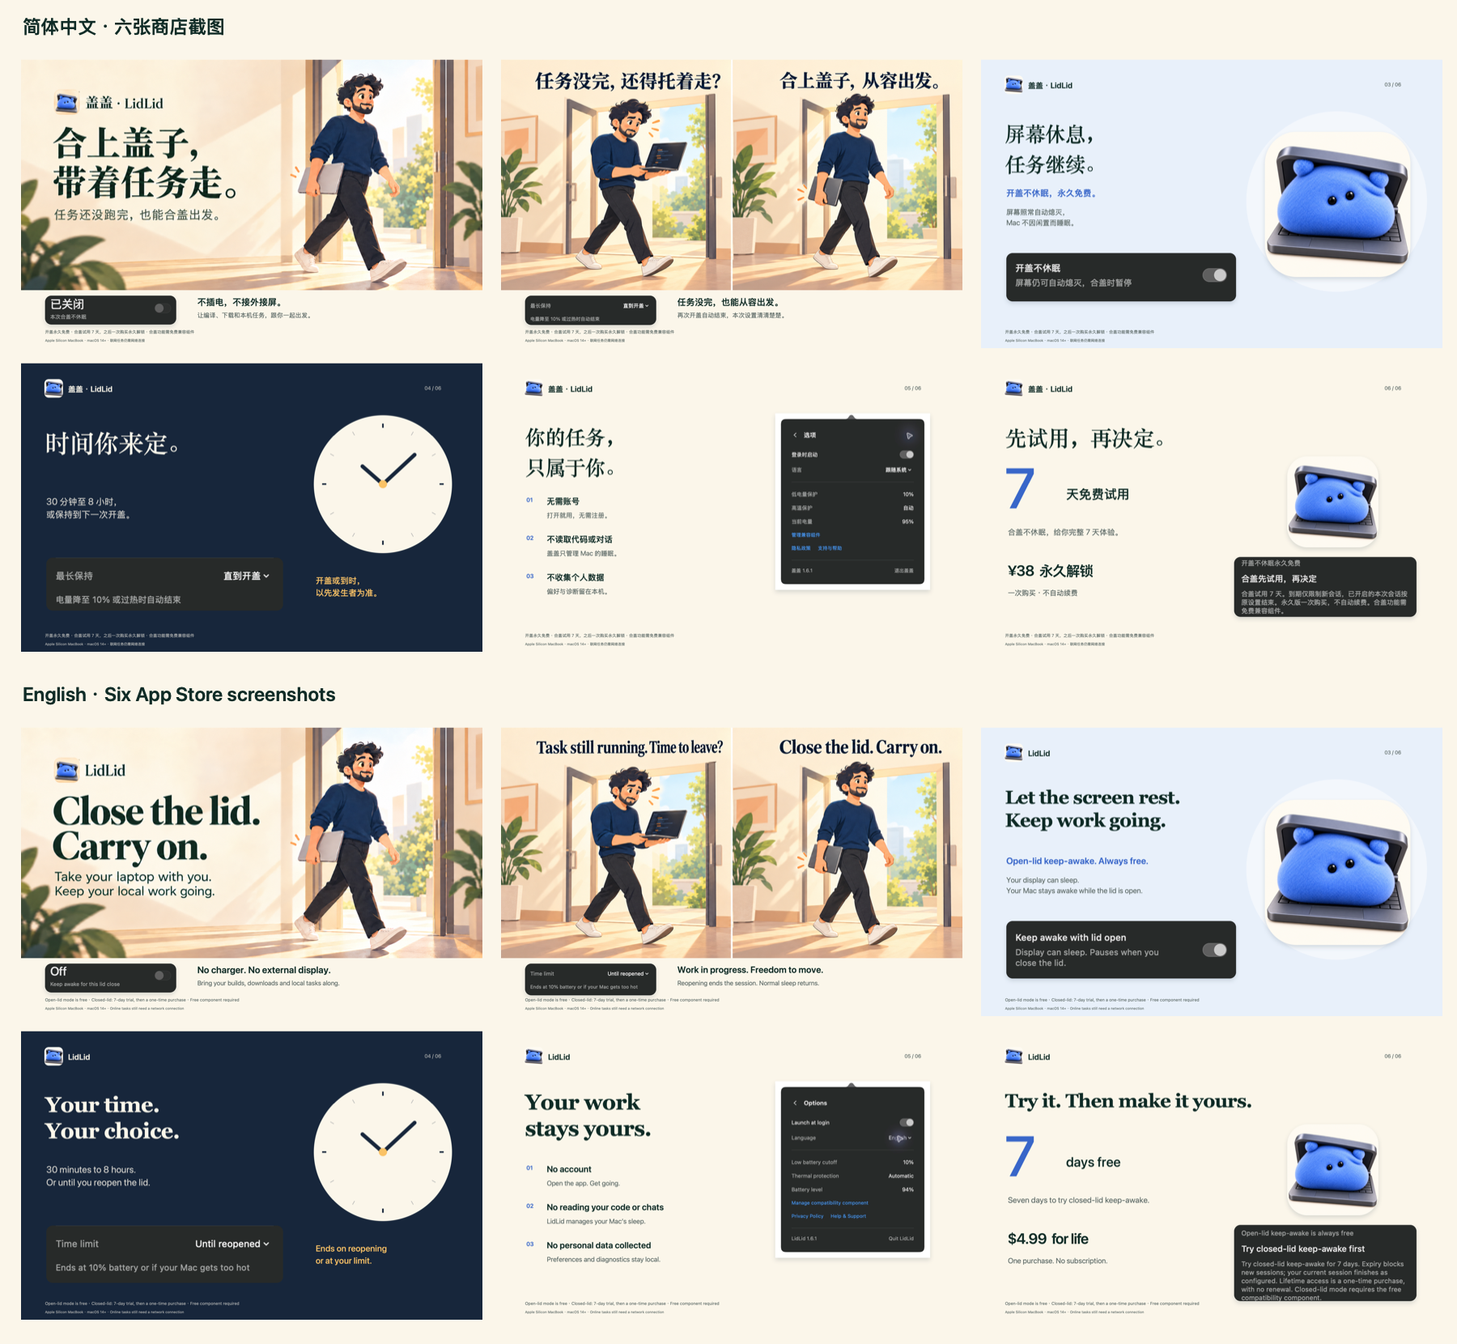
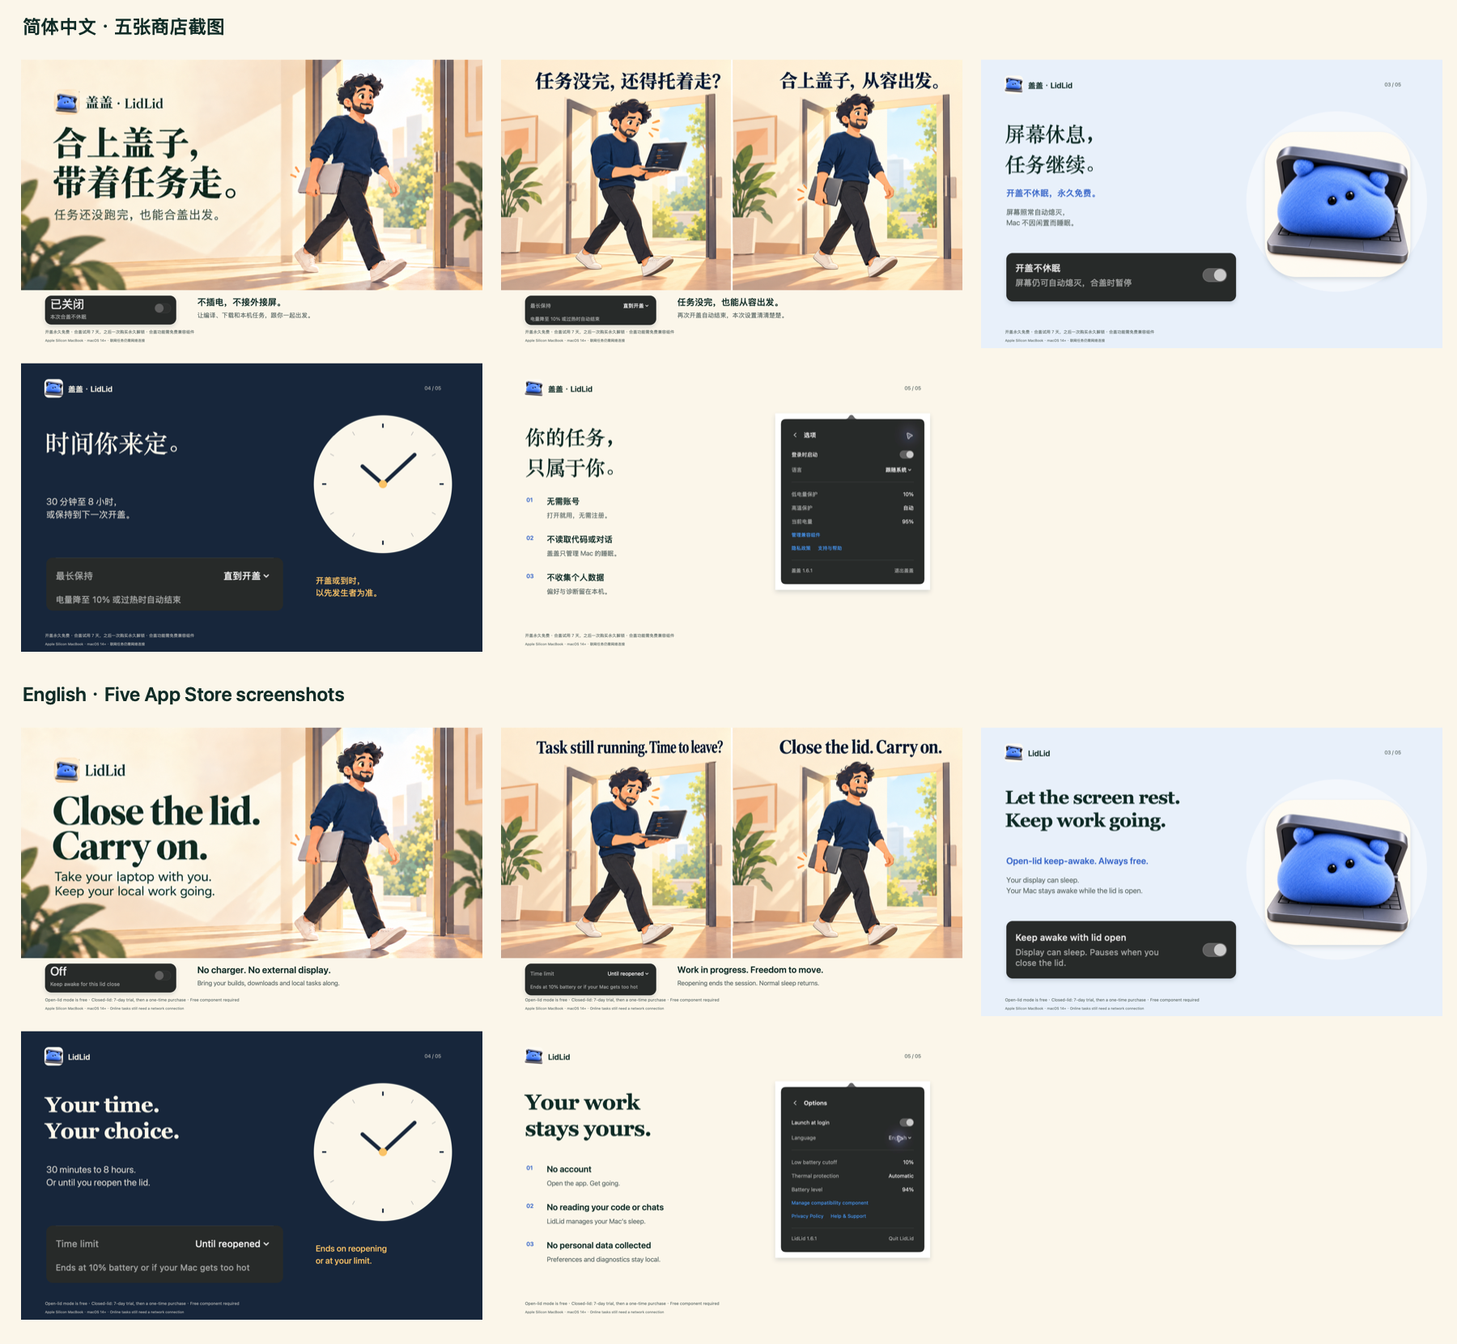
Remove pricing poster from bilingual App Store galleries

diff --git a/docs/app-store/index.html b/docs/app-store/index.html
@@ -1,7 +1,7 @@
 <!doctype html><html lang="zh-CN"><head><meta charset="utf-8"><meta name="viewport" content="width=device-width,initial-scale=1"><title>盖盖 LidLid · Mac App Store 上架资料</title><style>
 :root{color-scheme:light;font-family:-apple-system,BlinkMacSystemFont,"Segoe UI",sans-serif;color:#173c33;background:#f6f4ee}*{box-sizing:border-box}body{margin:0}main{max-width:1160px;margin:auto;padding:56px 28px 90px}header{display:flex;gap:18px;align-items:center}header img{width:72px;height:72px}h1{font-size:34px;letter-spacing:-1px;margin:4px 0 10px}p{line-height:1.7;color:#617167}h2{margin:48px 0 20px;font-size:25px}h3{font-size:15px;margin:0}.eyebrow{font-size:12px;letter-spacing:1px;color:#597164}.tabs{display:flex;gap:8px;margin:30px 0 22px}button{font:inherit;cursor:pointer;border:1px solid #d8ddd5;border-radius:9px;padding:10px 20px;color:inherit;background:#fff}button[aria-selected=true]{background:#204f40;color:white;border-color:#204f40}button:focus-visible,a:focus-visible{outline:3px solid #d99d51;outline-offset:4px}.gallery{display:grid;grid-template-columns:1fr 1fr;gap:20px}.gallery a{display:block;text-decoration:none;border:1px solid #e2e1d8;background:#fff;border-radius:14px;overflow:hidden}.gallery img{width:100%;height:auto;display:block}.gallery span{display:block;padding:12px 16px;font-size:13px;color:#617167}.field{border:1px solid #dddfd6;border-radius:13px;background:#fff;padding:20px;margin:14px 0}.field>div{display:flex;align-items:center;justify-content:space-between;gap:16px}.field pre{font:15px/1.8 -apple-system,BlinkMacSystemFont,sans-serif;white-space:pre-wrap;overflow-wrap:anywhere;color:#324c40;margin:14px 0}.field small{color:#69776e}.copy{padding:6px 12px;font-size:12px;flex-shrink:0}.links{display:flex;gap:20px;flex-wrap:wrap}a{color:#246848}.note{margin-top:40px;padding:22px;border:1px solid #ddd8c9;border-radius:12px;background:#efede4}.note p{margin:8px 0}footer{font-size:13px;color:#657369;margin-top:40px}#status{font-size:13px;min-height:24px;color:#246848}[hidden]{display:none!important}@media(max-width:650px){main{padding:30px 18px}h1{font-size:26px}.gallery{grid-template-columns:1fr}header img{width:56px;height:56px}.field{padding:16px}}
 </style></head><body><main><header><img src="assets/AppIcon-1024.png" alt="盖盖图标"><div><div class="eyebrow">LIDLID · MAC APP STORE</div><h1>盖盖上架资料</h1><p>1.6.1 · 构建 12 · 中英文文案与真实界面截图</p></div></header><nav class="tabs" role="tablist" aria-label="资料语言"><button role="tab" aria-selected="true" aria-controls="zh-Hans" data-locale="zh-Hans">简体中文</button><button role="tab" aria-selected="false" aria-controls="en-US" data-locale="en-US">English</button></nav><div id="status" aria-live="polite"></div><section class="locale" id="zh-Hans">
-<div class="gallery"><a href="screenshots/zh-Hans/01-close-and-go.png" target="_blank"><img src="screenshots/zh-Hans/01-close-and-go.png" alt="zh-Hans 01-close-and-go" width="2880" height="1800"><span>01 · 2880 × 1800 · PNG ↗</span></a><a href="screenshots/zh-Hans/02-carry-with-ease.png" target="_blank"><img src="screenshots/zh-Hans/02-carry-with-ease.png" alt="zh-Hans 02-carry-with-ease" width="2880" height="1800"><span>02 · 2880 × 1800 · PNG ↗</span></a><a href="screenshots/zh-Hans/03-open-lid-free.png" target="_blank"><img src="screenshots/zh-Hans/03-open-lid-free.png" alt="zh-Hans 03-open-lid-free" width="2880" height="1800"><span>03 · 2880 × 1800 · PNG ↗</span></a><a href="screenshots/zh-Hans/04-time-limits.png" target="_blank"><img src="screenshots/zh-Hans/04-time-limits.png" alt="zh-Hans 04-time-limits" width="2880" height="1800"><span>04 · 2880 × 1800 · PNG ↗</span></a><a href="screenshots/zh-Hans/05-local-and-private.png" target="_blank"><img src="screenshots/zh-Hans/05-local-and-private.png" alt="zh-Hans 05-local-and-private" width="2880" height="1800"><span>05 · 2880 × 1800 · PNG ↗</span></a><a href="screenshots/zh-Hans/06-try-and-unlock.png" target="_blank"><img src="screenshots/zh-Hans/06-try-and-unlock.png" alt="zh-Hans 06-try-and-unlock" width="2880" height="1800"><span>06 · 2880 × 1800 · PNG ↗</span></a></div>
+<div class="gallery"><a href="screenshots/zh-Hans/01-close-and-go.png" target="_blank"><img src="screenshots/zh-Hans/01-close-and-go.png" alt="zh-Hans 01-close-and-go" width="2880" height="1800"><span>01 · 2880 × 1800 · PNG ↗</span></a><a href="screenshots/zh-Hans/02-carry-with-ease.png" target="_blank"><img src="screenshots/zh-Hans/02-carry-with-ease.png" alt="zh-Hans 02-carry-with-ease" width="2880" height="1800"><span>02 · 2880 × 1800 · PNG ↗</span></a><a href="screenshots/zh-Hans/03-open-lid-free.png" target="_blank"><img src="screenshots/zh-Hans/03-open-lid-free.png" alt="zh-Hans 03-open-lid-free" width="2880" height="1800"><span>03 · 2880 × 1800 · PNG ↗</span></a><a href="screenshots/zh-Hans/04-time-limits.png" target="_blank"><img src="screenshots/zh-Hans/04-time-limits.png" alt="zh-Hans 04-time-limits" width="2880" height="1800"><span>04 · 2880 × 1800 · PNG ↗</span></a><a href="screenshots/zh-Hans/05-local-and-private.png" target="_blank"><img src="screenshots/zh-Hans/05-local-and-private.png" alt="zh-Hans 05-local-and-private" width="2880" height="1800"><span>05 · 2880 × 1800 · PNG ↗</span></a></div>
 <h2>可复制的中文商店字段</h2>
 <article class="field"><div><h3>名称 / Name</h3><button class="copy" data-copy="zh-Hans-name">复制 / Copy</button></div><pre id="zh-Hans-name">盖盖：MacBook 合盖不休眠</pre><small>16 characters</small></article><article class="field"><div><h3>副标题 / Subtitle</h3><button class="copy" data-copy="zh-Hans-subtitle">复制 / Copy</button></div><pre id="zh-Hans-subtitle">合上电脑，从容出发，让任务继续</pre><small>15 characters</small></article><article class="field"><div><h3>推广语 / Promotional text</h3><button class="copy" data-copy="zh-Hans-promotional_text">复制 / Copy</button></div><pre id="zh-Hans-promotional_text">任务还没跑完，却已经要出发？打开盖盖，合上 MacBook，让本机任务继续运行。无需插电或外接屏，开盖后本次自动结束。</pre><small>59 characters</small></article><article class="field"><div><h3>关键词 / Keywords</h3><button class="copy" data-copy="zh-Hans-keywords">复制 / Copy</button></div><pre id="zh-Hans-keywords">保持唤醒,后台运行,编译,下载,渲染,菜单栏,定时,防睡眠,开发,任务</pre><small>87 / 100 bytes</small></article><article class="field"><div><h3>简介 / Description</h3><button class="copy" data-copy="zh-Hans-description">复制 / Copy</button></div><pre id="zh-Hans-description">任务还在跑，你已经要走了。
 
@@ -44,7 +44,7 @@
 先试用，再决定
 开盖不休眠永久免费。设置好免费兼容组件后，可主动领取 7 天合盖功能试用。试用到期仅限制新开启的合盖会话，已开启的本次会话按原设置结束。可通过 Apple 应用内购买一次永久解锁合盖功能，不自动续费。支持恢复购买，恢复已结束的试用不会重新计时。</pre><small>1052 characters</small></article><article class="field"><div><h3>版本说明 / Release notes</h3><button class="copy" data-copy="zh-Hans-release_notes">复制 / Copy</button></div><pre id="zh-Hans-release_notes">开盖不休眠永久免费。合盖功能可试用 7 天，支持一次购买永久解锁及恢复购买。试用到期不打断本次会话，仅限制新开启的合盖会话。</pre><small>62 characters</small></article><article class="field"><div><h3>官网 / Marketing URL</h3><button class="copy" data-copy="zh-Hans-marketing_url">复制 / Copy</button></div><pre id="zh-Hans-marketing_url">https://lidlid.vercel.app/</pre><small></small></article><article class="field"><div><h3>支持 / Support URL</h3><button class="copy" data-copy="zh-Hans-support_url">复制 / Copy</button></div><pre id="zh-Hans-support_url">https://lidlid.vercel.app/support/</pre><small></small></article><article class="field"><div><h3>隐私政策 / Privacy Policy URL</h3><button class="copy" data-copy="zh-Hans-privacy_url">复制 / Copy</button></div><pre id="zh-Hans-privacy_url">https://lidlid.vercel.app/privacy/</pre><small></small></article>
 <h2>隐私与审核资料</h2><div class="links"><a href="privacy/zh-Hans.html">完整隐私政策 ↗</a><a href="privacy/zh-Hans.txt">TXT ↗</a><a href="review-notes.zh-Hans.txt">审核说明 ↗</a></div></section><section class="locale" id="en-US" hidden>
-<div class="gallery"><a href="screenshots/en-US/01-close-and-go.png" target="_blank"><img src="screenshots/en-US/01-close-and-go.png" alt="en-US 01-close-and-go" width="2880" height="1800"><span>01 · 2880 × 1800 · PNG ↗</span></a><a href="screenshots/en-US/02-carry-with-ease.png" target="_blank"><img src="screenshots/en-US/02-carry-with-ease.png" alt="en-US 02-carry-with-ease" width="2880" height="1800"><span>02 · 2880 × 1800 · PNG ↗</span></a><a href="screenshots/en-US/03-open-lid-free.png" target="_blank"><img src="screenshots/en-US/03-open-lid-free.png" alt="en-US 03-open-lid-free" width="2880" height="1800"><span>03 · 2880 × 1800 · PNG ↗</span></a><a href="screenshots/en-US/04-time-limits.png" target="_blank"><img src="screenshots/en-US/04-time-limits.png" alt="en-US 04-time-limits" width="2880" height="1800"><span>04 · 2880 × 1800 · PNG ↗</span></a><a href="screenshots/en-US/05-local-and-private.png" target="_blank"><img src="screenshots/en-US/05-local-and-private.png" alt="en-US 05-local-and-private" width="2880" height="1800"><span>05 · 2880 × 1800 · PNG ↗</span></a><a href="screenshots/en-US/06-try-and-unlock.png" target="_blank"><img src="screenshots/en-US/06-try-and-unlock.png" alt="en-US 06-try-and-unlock" width="2880" height="1800"><span>06 · 2880 × 1800 · PNG ↗</span></a></div>
+<div class="gallery"><a href="screenshots/en-US/01-close-and-go.png" target="_blank"><img src="screenshots/en-US/01-close-and-go.png" alt="en-US 01-close-and-go" width="2880" height="1800"><span>01 · 2880 × 1800 · PNG ↗</span></a><a href="screenshots/en-US/02-carry-with-ease.png" target="_blank"><img src="screenshots/en-US/02-carry-with-ease.png" alt="en-US 02-carry-with-ease" width="2880" height="1800"><span>02 · 2880 × 1800 · PNG ↗</span></a><a href="screenshots/en-US/03-open-lid-free.png" target="_blank"><img src="screenshots/en-US/03-open-lid-free.png" alt="en-US 03-open-lid-free" width="2880" height="1800"><span>03 · 2880 × 1800 · PNG ↗</span></a><a href="screenshots/en-US/04-time-limits.png" target="_blank"><img src="screenshots/en-US/04-time-limits.png" alt="en-US 04-time-limits" width="2880" height="1800"><span>04 · 2880 × 1800 · PNG ↗</span></a><a href="screenshots/en-US/05-local-and-private.png" target="_blank"><img src="screenshots/en-US/05-local-and-private.png" alt="en-US 05-local-and-private" width="2880" height="1800"><span>05 · 2880 × 1800 · PNG ↗</span></a></div>
 <h2>English product page fields</h2>
 <article class="field"><div><h3>名称 / Name</h3><button class="copy" data-copy="en-US-name">复制 / Copy</button></div><pre id="en-US-name">LidLid: Closed-Lid Keep Awake</pre><small>29 characters</small></article><article class="field"><div><h3>副标题 / Subtitle</h3><button class="copy" data-copy="en-US-subtitle">复制 / Copy</button></div><pre id="en-US-subtitle">Close the lid. Carry on.</pre><small>24 characters</small></article><article class="field"><div><h3>推广语 / Promotional text</h3><button class="copy" data-copy="en-US-promotional_text">复制 / Copy</button></div><pre id="en-US-promotional_text">Work still running when you need to move? Keep your MacBook awake with the lid closed, on battery and without an external display. Reopen it to end the session.</pre><small>160 characters</small></article><article class="field"><div><h3>关键词 / Keywords</h3><button class="copy" data-copy="en-US-keywords">复制 / Copy</button></div><pre id="en-US-keywords">clamshell,sleep,laptop,background,timer,build,download,render,menubar,awake,screen</pre><small>82 / 100 bytes</small></article><article class="field"><div><h3>简介 / Description</h3><button class="copy" data-copy="en-US-description">复制 / Copy</button></div><pre id="en-US-description">Your work is still running. You need to go.
 

diff --git a/scripts/render-app-store.swift b/scripts/render-app-store.swift
@@ -5,7 +5,7 @@ import AppKit
 let root = URL(fileURLWithPath: CommandLine.arguments.count > 1 ? CommandLine.arguments[1] : FileManager.default.currentDirectoryPath)
 let out = root.appendingPathComponent("docs/app-store")
 let W: CGFloat = 1440, H: CGFloat = 900
-let names = ["01-close-and-go", "02-carry-with-ease", "03-open-lid-free", "04-time-limits", "05-local-and-private", "06-try-and-unlock"]
+let names = ["01-close-and-go", "02-carry-with-ease", "03-open-lid-free", "04-time-limits", "05-local-and-private"]
 let ink = NSColor(srgbRed: 0.06, green: 0.17, blue: 0.15, alpha: 1)
 let muted = NSColor(srgbRed: 0.36, green: 0.41, blue: 0.40, alpha: 1)
 let blue = NSColor(srgbRed: 0.22, green: 0.40, blue: 0.79, alpha: 1)
@@ -54,7 +54,7 @@ func native(_ cn: Bool, _ top: CGFloat, _ height: CGFloat, _ x: CGFloat, _ y: CG
 func header(_ cn: Bool, _ page: Int, dark: Bool = false) {
     draw(load("docs/assets/app-icon.png"), 72, 48, 58)
     text(cn ? "盖盖 · LidLid" : "LidLid", 146, 64, 600, 40, 25, dark ? cream : ink, .semibold)
-    if page > 0 { text(String(format: "%02d / 06", page), 1260, 67, 110, 30, 16, dark ? cream.withAlphaComponent(0.65) : muted) }
+    if page > 0 { text(String(format: "%02d / %02d", page, names.count), 1260, 67, 110, 30, 16, dark ? cream.withAlphaComponent(0.65) : muted) }
 }
 func footer(_ cn: Bool, dark: Bool = false) {
     let c = dark ? cream.withAlphaComponent(0.65) : muted
@@ -139,18 +139,6 @@ for locale in ["zh-Hans", "en-US"] {
         shadow { draw(load("docs/app-store/captures/\(locale)/options.png"), 856, 155, 484) }
         footer(cn)
     }
-    try render(names[5], locale) { cn in
-        header(cn, 6)
-        text(cn ? "先试用，再决定。" : "Try it. Then make it yours.", 74, 182, 1290, 100, cn ? 68 : 60, ink, .semibold, serif: true)
-        text("7", 72, 281, 225, 214, 178, blue, .medium)
-        text(cn ? "天免费试用" : "days free", 265, 382, 510, 64, 42, ink, .medium)
-        text(cn ? "合盖不休眠，给你完整 7 天体验。" : "Seven days to try closed-lid keep-awake.", 83, 512, 660, 70, 25, muted)
-        text(cn ? "¥38  永久解锁" : "$4.99  for life", 82, 620, 650, 70, 46, ink, .semibold)
-        text(cn ? "一次购买 · 不自动续费" : "One purchase. No subscription.", 83, 703, 650, 43, 23, muted)
-        shadow { draw(load("docs/assets/app-icon.png"), 956, 290, 285) }
-        native(cn, cn ? 728 : 785, cn ? 198 : 252, 790, 605, 570)
-        footer(cn)
-    }
     // Private IAP review attachment: complete real native capture, including
     // actual StoreKit availability. This is NOT a public product-page card.
     try render("review-purchase-ui", locale) { cn in
@@ -167,7 +155,7 @@ let overview = CGContext(data: nil, width: 1800, height: 1660, bitsPerComponent:
 NSGraphicsContext.saveGraphicsState(); NSGraphicsContext.current = NSGraphicsContext(cgContext: overview, flipped: false)
 cream.setFill(); NSRect(x: 0, y: 0, width: 1800, height: 1660).fill()
 for (row, locale) in ["zh-Hans", "en-US"].enumerated() {
-    let label = NSAttributedString(string: locale == "zh-Hans" ? "简体中文 · 六张商店截图" : "English · Six App Store screenshots", attributes: [.font: NSFont.systemFont(ofSize: 24, weight: .semibold), .foregroundColor: ink])
+    let label = NSAttributedString(string: locale == "zh-Hans" ? "简体中文 · 五张商店截图" : "English · Five App Store screenshots", attributes: [.font: NSFont.systemFont(ofSize: 24, weight: .semibold), .foregroundColor: ink])
     label.draw(at: NSPoint(x: 28, y: 1614 - row * 825))
     for (index, name) in names.enumerated() {
         let col = index % 3, r = index / 3
@@ -177,4 +165,4 @@ for (row, locale) in ["zh-Hans", "en-US"].enumerated() {
 }
 NSGraphicsContext.restoreGraphicsState()
 try NSBitmapImageRep(cgImage: overview.makeImage()!).representation(using: .png, properties: [:])!.write(to: out.appendingPathComponent("screenshots-overview.png"))
-print("Rendered six 2880 × 1800 opaque RGB screenshots per locale, plus private IAP review attachments.")
+print("Rendered five 2880 × 1800 opaque RGB screenshots per locale, plus private IAP review attachments.")

diff --git a/docs/app-store/SUBMISSION.md b/docs/app-store/SUBMISSION.md
@@ -9,7 +9,7 @@
 ## 可直接使用的资料
 
 - metadata/zh-Hans 与 metadata/en-US 中的纯文本字段可逐项复制。
-- screenshots 中按 01 至 06 的顺序上传对应语言 PNG；尺寸为 2880 × 1800，16:10，无透明通道。
+- screenshots 中按 01 至 05 的顺序上传对应语言 PNG；尺寸为 2880 × 1800，16:10，无透明通道。
 - privacy 中提供完整中英文政策，正式 URL 已列入对应元数据。政策与官网使用同一个文本来源。
 - review-notes.en.txt 是审核说明；中文说明供核对，不包含个人审核联系方式。
 - assets 中提供现有品牌图标的标准尺寸导出和 AppIcon.appiconset。
@@ -20,7 +20,7 @@
 
 正式会员和团队 `63ALH54858` 已核实。Bundle ID `dev.kf.lidonce` 已注册，App Store Connect 应用记录为 `6831452648`，SKU 为 `LIDLID_MAC`。1.6.1 构建 12 已通过本机发行签名、描述文件、沙盒与隐私清单校验，经 Xcode 成功上传；上传成功不代表审核通过。
 
-中英文名称、副标题、描述、关键词、支持和隐私网址已填写。中英文商店图库各 6 张已上传至对应语言，顺序为出门、前后对比、免费开盖、定时、隐私、试用解锁。两项内购的英文审核截图均已上传草稿；它们如实保留当前商品不可用状态，真实购买验证后还需更新。审核说明已压缩至 4000 字符以内，网页保存提示缺少审核联系人姓名和电话，此部分仍待持有人本人补齐。隐私申报由持有人确认后发布为“未收集数据”；年龄问卷计算结果为 4+（存在地区分级差异）。试用与永久解锁两项非消耗型商品已创建，价格为 US$0.00 和 US$4.99；首发地区由持有人选择为美国和中国大陆。
+中英文名称、副标题、描述、关键词、支持和隐私网址已填写。中英文商店图库已按持有人要求移除价格海报，本地各 5 张，顺序为出门、前后对比、免费开盖、定时、隐私。商店后台因浏览器连接超时暂待同步，上次核实各为 6 张，当前进度见 gallery-upload.json。两项内购的英文审核截图均已上传草稿；它们如实保留当前商品不可用状态，真实购买验证后还需更新。审核说明已压缩至 4000 字符以内，网页保存提示缺少审核联系人姓名和电话，此部分仍待持有人本人补齐。隐私申报由持有人确认后发布为“未收集数据”；年龄问卷计算结果为 4+（存在地区分级差异）。试用与永久解锁两项非消耗型商品已创建，价格为 US$0.00 和 US$4.99；首发地区由持有人选择为美国和中国大陆。
 
 **先向持有人展示可安装版本、实际购买界面和对应语言的商店素材，确认后再提交审核。版本保持审核通过后手动发布。** 本机开发签名的商店模式预览副本已准备，原安装副本保留。实际 StoreKit 购买、恢复等测试及商务资料仍需完成，当前商店截图供持有人审阅确认。免费兼容组件的 Developer ID 签名已完成，公证已提交，尚待 Apple 返回可分发结果。
 
@@ -41,7 +41,7 @@
 | 独立组件正式分发 | Developer ID 签名已完成，公证已提交；待可分发结果和正式下载 URL，免费，不由商店主应用自动安装 |
 | App Group | macOS Team-ID 组 63ALH54858.dev.kf.lidonce 无需后台注册；正式构建已验证沙盒权限，发行版 XPC 通信仍需实测 |
 | 实际合盖测试 | 电池且无外接屏、屏幕唤醒回归、电源切换、开盖恢复、下一次正常睡眠均待实测 |
-| 商店截图 | 中英文各 6 张 2880 × 1800 图片已上传并重新载入核对，含已确认场景插画及 1.6.1 构建 12 真实界面；原始图保留，正式送审前由持有人确认 |
+| 商店截图 | 中英文各 5 张 2880 × 1800 图片已生成及校验；商店后台同步待浏览器连接恢复，原始图保留，正式送审前由持有人确认 |
 | 商店发行签名及上传校验 | 正式证书和描述文件已配置，Xcode 已成功上传 1.6.1 构建 12；Apple 处理结果与最终审核仍待核实 |
 
 submission-inputs.example.json 只保存可分享的空模板。若记录实际审核联系人，请使用未跟踪的 submission-inputs.local.json，并在本机保管。

diff --git a/docs/app-store/README.md b/docs/app-store/README.md
@@ -5,7 +5,7 @@
 | 文件 | 用途 |
 | --- | --- |
 | metadata/zh-Hans 和 metadata/en-US | 名称、副标题、推广语、关键词、简介、版本说明及网址，每项一个 TXT |
-| screenshots | 每种语言 6 张 2880 × 1800 RGB PNG，按文件序号上传 |
+| screenshots | 每种语言 5 张 2880 × 1800 RGB PNG，按文件序号上传 |
 | review-screenshots | 完整真实购买界面，仅供内购审核；商品不可用状态如实保留，购买验证后更新 |
 | privacy | 与官网相同来源的中英文政策和随应用打包的隐私清单 |
 | PRIVACY-ANSWERS.md | App Privacy 问卷填写依据 |
